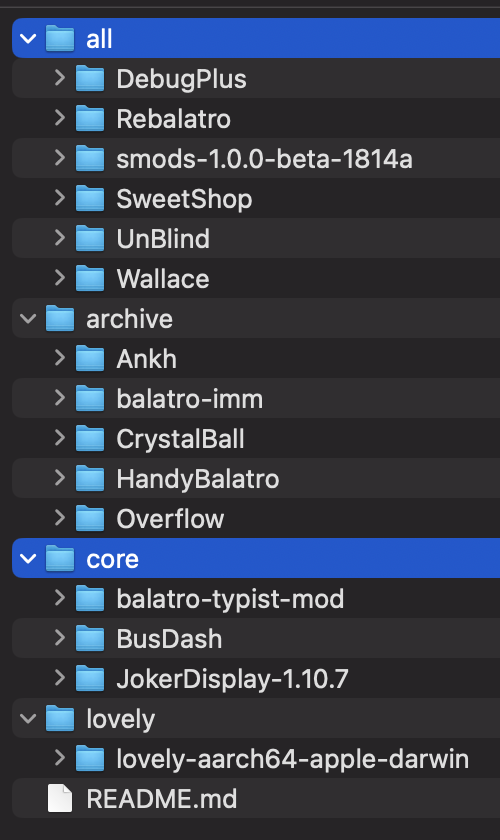
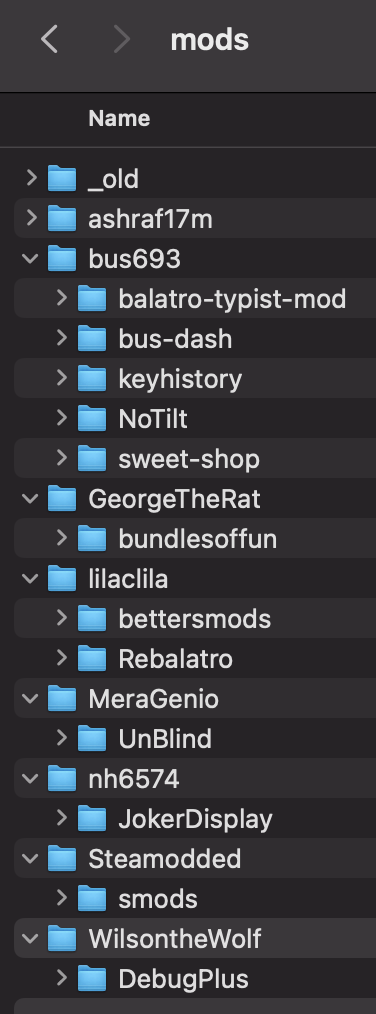
Update README.md for barebone description of groups.json driven groups

Changed region(s): [[0.0, 0.0, 1.0, 0.9905], [0.0293, 0.3714, 0.0585, 0.4024]]

diff --git a/README.md b/README.md
@@ -10,26 +10,6 @@ You may want to switch up which mods you use. In-game, you can do this with stea
 
 This script only works on macOS and requires python3. (It's tested on system python3 but any python3 should work.)
 
-## Install
+## Install and Run
 
-1. Edit the `MODS_SRC_PATH` to set it to a folder that will contain your mods, but wait before you move your mods.
-
-2. This script expects your mods to be in subfolders within `MODS_SRC_PATH`:
-
-Here is an example of what your mods setup could look like.
-
-<img src="example_folder_setup.png" width="200">
-
-## Run
-
-First, follow the install instructions. The runner will not work if it can't find your mods.
-
-Then, you can choose between the following commands.
-
-- `python3 run_balatro.py`: Including no groups runs the game without any mods. It does not use the lovely run script.
-- `python3 run_balatro.py core all`: You can include any number of groups. Including groups installs all the mods within those groups. Mods within lovely's `blacklist.txt` are still disabled. For verbose mode, `python3 run_balatro.py core all -v`.
-- `python3 run_balatro.py core all --clear-blacklist`: By default, any mods on the blacklist (typically, this is from disabling the mod using smods' in-game mod selector) will not run. Clearing the blacklist enables all the mods in your groups.
-
-## Troubleshooting
-
-Contact `Bus693` on Balatro Discord. Include the command output in verbose mode.
+This version does not have a README, but you can refer to the `groups.example.json` file and `example_folder_setup.png` for an idea of how to use it.